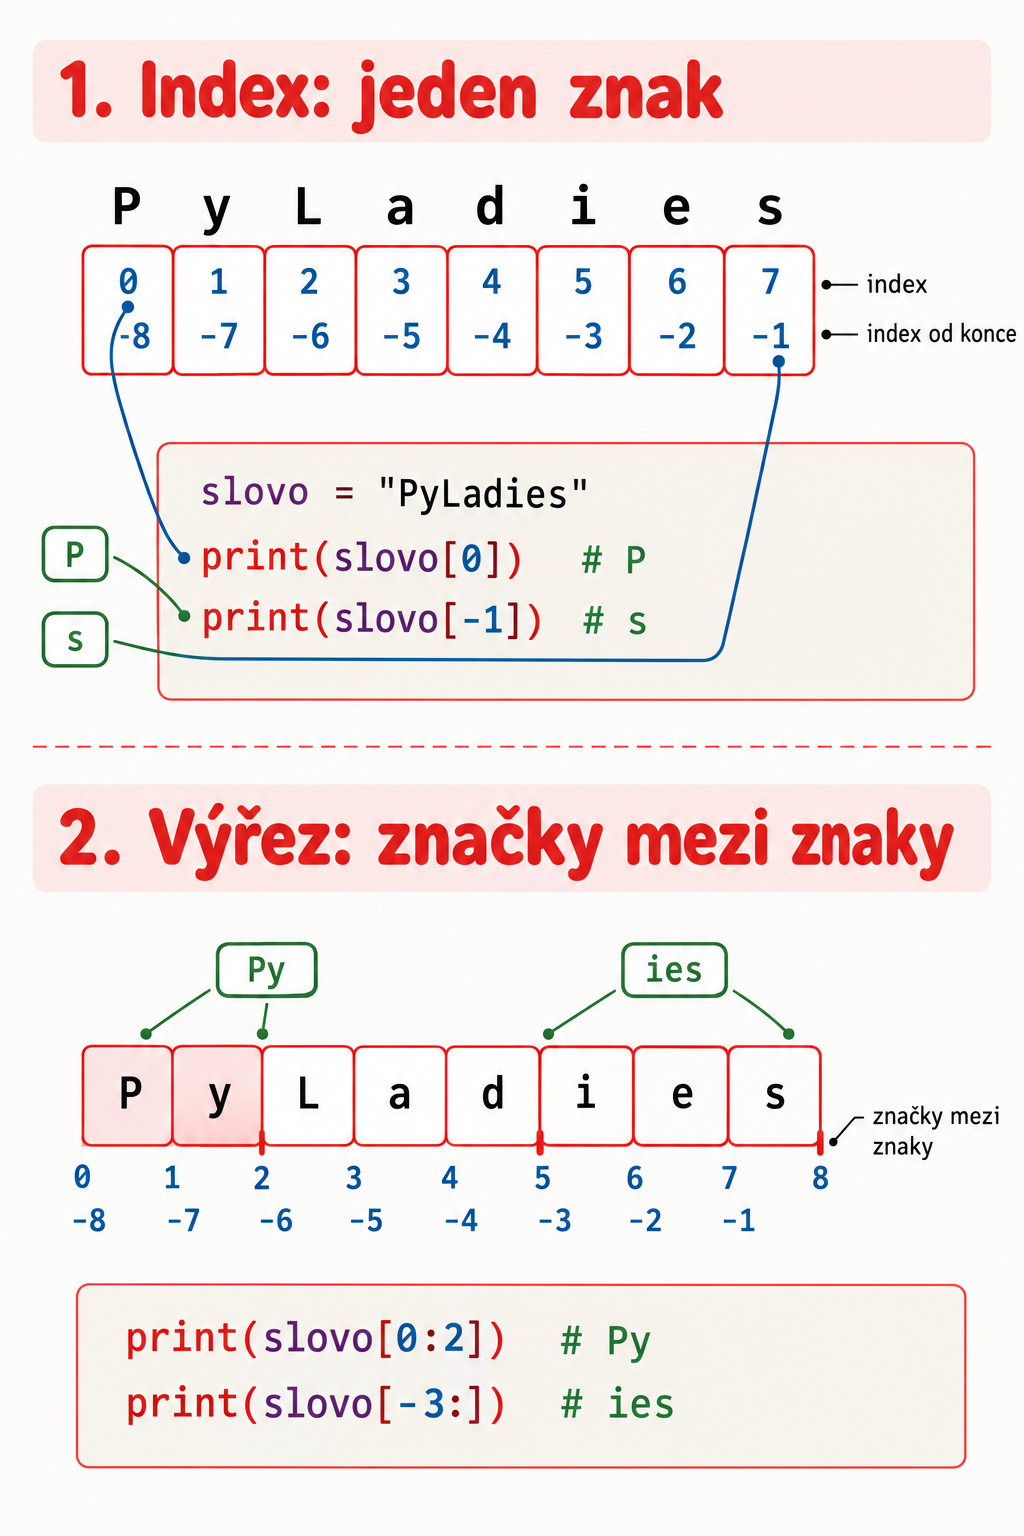
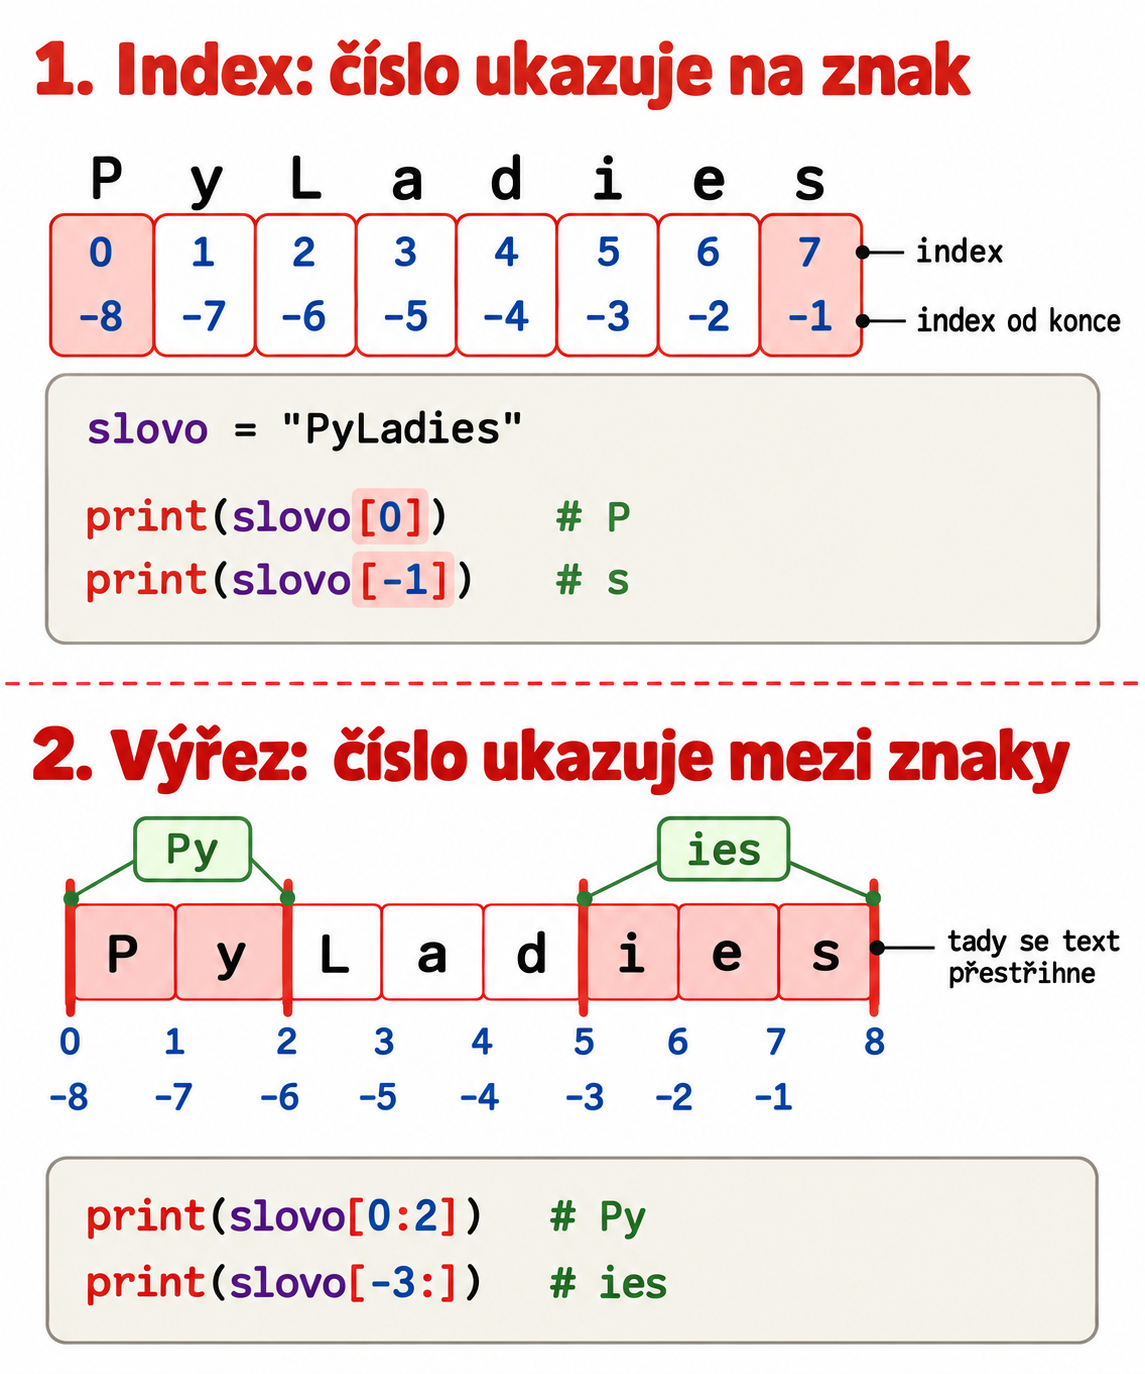
Apply lesson 6 review feedback

Changed region(s): [[0.0312, 0.1223, 1.0, 0.9782], [0.0312, 0.0306, 0.9375, 0.0917], [0.5625, 0.3362, 0.625, 0.3668]]

diff --git a/lekce06-retezce/02_metody_retezcu/cviceni_bonusy/reseni/02_kontrola_hesla.py b/lekce06-retezce/02_metody_retezcu/cviceni_bonusy/reseni/02_kontrola_hesla.py
@@ -11,12 +11,21 @@
 #    Na číslici se zeptáš průchodem přes znaky: cyklus for z lekce 3
 #    a isdigit() na každý znak.
 #    Na velké písmeno stačí porovnat heslo se sebou samým po lower().
+#    Jde to ale i cyklem jako u číslice – každého znaku se tam zeptáš
+#    metodou isupper().
 
 heslo = input("Zadej heslo: ")
 
 dost_dlouhe = len(heslo) >= 8
+
+# lower() vrací nový řetězec, původní heslo nemění. Když se ty dva
+# od sebe liší, muselo v hesle být velké písmeno – jinak by lower()
+# vrátil přesně to samé.
 ma_velke = heslo != heslo.lower()
 
+# isdigit() na celém hesle by se ptalo, jestli jsou číslice všechny
+# znaky. Tady potřebuješ vědět, jestli je číslice aspoň jedna – proto
+# cyklus. Break ho ukončí, jakmile je jasno.
 ma_cislici = False
 for znak in heslo:
     if znak.isdigit():
@@ -32,9 +41,16 @@ if dost_dlouhe and ma_cislici and ma_velke:
 else:
     print("Heslo nevyhovuje.")
 
-# isdigit() na celém hesle by se ptalo, jestli jsou číslice všechny
-# znaky. Tady potřebuješ vědět, jestli je číslice aspoň jedna – proto
-# cyklus. Break ho ukončí, jakmile je jasno.
-#
-# heslo != heslo.lower() funguje proto, že lower() vrací nový řetězec.
-# Když se od původního liší, bylo v něm velké písmeno.
+
+# Velké písmeno jde hledat i cyklem, úplně stejně jako číslici – jen
+# se každého znaku ptáš metodou isupper(). Je to delší, zato je na
+# první pohled vidět, co se hledá:
+ma_velke_cyklem = False
+for znak in heslo:
+    if znak.isupper():
+        ma_velke_cyklem = True
+        break
+
+print(f"Velké písmeno (cyklem): {ma_velke_cyklem}")
+
+# Obě řešení jsou správně.

diff --git a/lekce06-retezce/02_metody_retezcu/04_metody_dohromady.py b/lekce06-retezce/02_metody_retezcu/04_metody_dohromady.py
@@ -10,7 +10,11 @@
 
 odpoved = input("Chceš pokračovat? (ano/ne) ")
 
-upravena = odpoved.strip().lower()
+
+# Nejdřív po krocích, tak jak bys to napsala dneska:
+bez_mezer = odpoved.strip()         # zmizí mezery na krajích
+upravena = bez_mezer.lower()        # vzniknou malá písmena
+
 print(f"[{upravena}]")
 
 if upravena == "ano":
@@ -19,11 +23,11 @@ else:
     print("Končíme.")
 
 
-# Dvě metody se dají napsat za sebe na jeden řádek. Vyhodnocuje se to
-# zleva doprava:
-#   odpoved.strip()    nejdřív zmizí mezery na krajích
-#   .lower()           z toho výsledku pak vzniknou malá písmena
-#
-# Kdyby byly dva kroky přehlednější, jde to i takhle:
-#   bez_mezer = odpoved.strip()
-#   upravena = bez_mezer.lower()
+# Protože strip() vrací řetězec, dá se lower() zavolat rovnou na jeho
+# výsledku a obě metody napsat na jeden řádek. Vyhodnocuje se to zleva
+# doprava, takže vyjde to samé:
+zkracene = odpoved.strip().lower()
+
+print(f"[{zkracene}]")
+
+# Takhle zkráceně se to píše nejčastěji.

diff --git a/lekce06-retezce/02_metody_retezcu/01_metoda.py b/lekce06-retezce/02_metody_retezcu/01_metoda.py
@@ -19,8 +19,12 @@ print(jmeno.upper())        # PYLADIES
 #   .         tečka – „na téhle hodnotě"
 #   upper()   metoda, tedy funkce, která k řetězci patří
 #
-# Kulaté závorky jsou povinné stejně jako u len() nebo u tvých funkcí
-# z lekce 5.
+# Kulaté závorky znamenají „zavolej to" – stejně jako u len() nebo
+# u tvých funkcí z lekce 5. Bez nich se metoda nezavolá a Python jenom
+# oznámí, že nějaká taková metoda existuje:
+print(jmeno.upper)      # <built-in method upper of str object at ...>
+
+# Takový výpis skoro vždycky znamená, že někde chybí závorky.
 
 
 # Metodu jde zavolat i rovnou na textu v uvozovkách:

diff --git a/lekce06-retezce/03_indexovani_a_vyrezy/03_text_nejde_menit.py b/lekce06-retezce/03_indexovani_a_vyrezy/03_text_nejde_menit.py
@@ -10,8 +10,9 @@ slovo = "palec"
 print(slovo[0])     # p
 
 
-# Přepsat ho ale nejde. Řetězec v Pythonu jednou vznikne a od té chvíle
-# se nemění – odborně se tomu říká neměnný. Když potřebuješ jiný,
+# Přepsat ho ale nejde. Zápis slovo[0] = "v" skončí chybou – na konci
+# souboru si to vyzkoušíš. Řetězec v Pythonu jednou vznikne a od té
+# chvíle se nemění, odborně se tomu říká neměnný. Když potřebuješ jiný,
 # vyrobíš nový, třeba z výřezů:
 novy = "v" + slovo[1:]
 print(novy)         # valec

diff --git a/lekce06-retezce/01_skladani_textu/01_co_umi_retezec.py b/lekce06-retezce/01_skladani_textu/01_co_umi_retezec.py
@@ -20,7 +20,9 @@ for pismeno in "Ahoj":              # průchod po znacích    (lekce 3)
 vek = 30
 print("Je mi " + str(vek) + " let")     # Je mi 30 let
 
-# Plus spojuje text s textem. Bez str() by ten řádek spadl na TypeError.
+# Plus umí spojit jenom text s textem. Kdybys napsala "Je mi " + vek,
+# tedy text plus číslo, Python by spadl na TypeError. Proto to str() –
+# udělá z čísla 30 text "30" a ten už se spojit dá.
 
 
 # Čím víc kousků, tím hůř se taková věta píše i čte – uhlídat je potřeba

diff --git a/lekce06-retezce/03_indexovani_a_vyrezy/cviceni/reseni/05_palindrom.py b/lekce06-retezce/03_indexovani_a_vyrezy/cviceni/reseni/05_palindrom.py
@@ -13,3 +13,19 @@ else:
 
 # Výřez s krokem -1 vrátí otočený text. Když se otočený rovná
 # původnímu, je to palindrom.
+
+
+# Když si na slovo[::-1] nevzpomeneš, poskládáš otočené slovo cyklem
+# z lekce 3 – každý další znak dáváš před ty předchozí:
+otocene = ""
+for znak in slovo:
+    otocene = znak + otocene
+
+print(f"Pozpátku: {otocene}")
+
+if slovo == otocene:
+    print(f"{slovo} je palindrom.")
+else:
+    print(f"{slovo} palindrom není.")
+
+# Obě řešení jsou správně.

diff --git a/lekce06-retezce/01_skladani_textu/04_zaokrouhleni_ve_fstringu.py b/lekce06-retezce/01_skladani_textu/04_zaokrouhleni_ve_fstringu.py
@@ -3,8 +3,9 @@
 # ---------------------------------------------
 # Spusť soubor a podívej se na první řádek výpisu.
 #
-# Ten ocas číslic na konci minulého souboru nebyl překlep. S desetinnými
-# čísly počítá Python s drobnou nepřesností a na ceně je to vidět taky:
+# V minulém souboru vyšlo u přečtených stran 57.49999999999999 a nebyl to
+# překlep. S desetinnými čísly počítá Python s drobnou nepřesností
+# a na ceně je to vidět taky:
 
 cena = 249
 s_dph = cena * 1.21

diff --git a/lekce06-retezce/02_metody_retezcu/cviceni/reseni/01_rozeber_slovo.py b/lekce06-retezce/02_metody_retezcu/cviceni/reseni/01_rozeber_slovo.py
@@ -2,8 +2,10 @@
 # Tvoje řešení může vypadat jinak, a to je v pořádku.
 
 # Zeptej se na slovo a vypiš o něm čtyři řádky:
-#    velkými písmeny, malými písmeny, kolik má znaků
-#    a kolikrát je v něm písmeno "a".
+#    - slovo velkými písmeny,
+#    - slovo malými písmeny,
+#    - kolik má znaků,
+#    - kolikrát je v něm písmeno "a".
 #
 #    Délku umí len() z lekce 3, zbytek jsou metody z výkladu.
 

diff --git a/lekce06-retezce/02_metody_retezcu/cviceni/01_rozeber_slovo.py b/lekce06-retezce/02_metody_retezcu/cviceni/01_rozeber_slovo.py
@@ -2,7 +2,9 @@
 # Doplň kód pod zadání a soubor spusť (Run).
 
 # Zeptej se na slovo a vypiš o něm čtyři řádky:
-#    velkými písmeny, malými písmeny, kolik má znaků
-#    a kolikrát je v něm písmeno "a".
+#    - slovo velkými písmeny,
+#    - slovo malými písmeny,
+#    - kolik má znaků,
+#    - kolikrát je v něm písmeno "a".
 #
 #    Délku umí len() z lekce 3, zbytek jsou metody z výkladu.

diff --git a/lekce06-retezce/02_metody_retezcu/03_uzitecne_metody.py b/lekce06-retezce/02_metody_retezcu/03_uzitecne_metody.py
@@ -24,4 +24,5 @@ print(f"[{odpoved.strip()}]")            # [ano]
 
 
 # Metod je mnohem víc. Ve VS Code napiš tečku za řetězec nebo za proměnnou
-# a editor ti nabídne seznam. Pamatovat si je nemusíš.
+# a editor ti nabídne seznam. Pamatovat si je nemusíš – ty nejpoužívanější
+# jsou i v taháku k téhle lekci.

diff --git a/lekce06-retezce/03_indexovani_a_vyrezy/cviceni/reseni/03_datum.py b/lekce06-retezce/03_indexovani_a_vyrezy/cviceni/reseni/03_datum.py
@@ -12,4 +12,6 @@ den = datum[8:10]
 
 print(f"{den}. {mesic}. {rok}")
 
-# Pomlčky jsou na indexech 4 a 7, proto ty mezery v číslech.
+# Pomlčky sedí na indexech 4 a 7 a ve výřezech je nechceme. Proto rok
+# končí na čtyřce, měsíc začíná na pětce a den na osmičce – čísla 4 a 7
+# se v nich přeskočí.

diff --git a/lekce06-retezce/02_metody_retezcu/cviceni_bonusy/02_kontrola_hesla.py b/lekce06-retezce/02_metody_retezcu/cviceni_bonusy/02_kontrola_hesla.py
@@ -11,3 +11,5 @@
 #    Na číslici se zeptáš průchodem přes znaky: cyklus for z lekce 3
 #    a isdigit() na každý znak.
 #    Na velké písmeno stačí porovnat heslo se sebou samým po lower().
+#    Jde to ale i cyklem jako u číslice – každého znaku se tam zeptáš
+#    metodou isupper().
